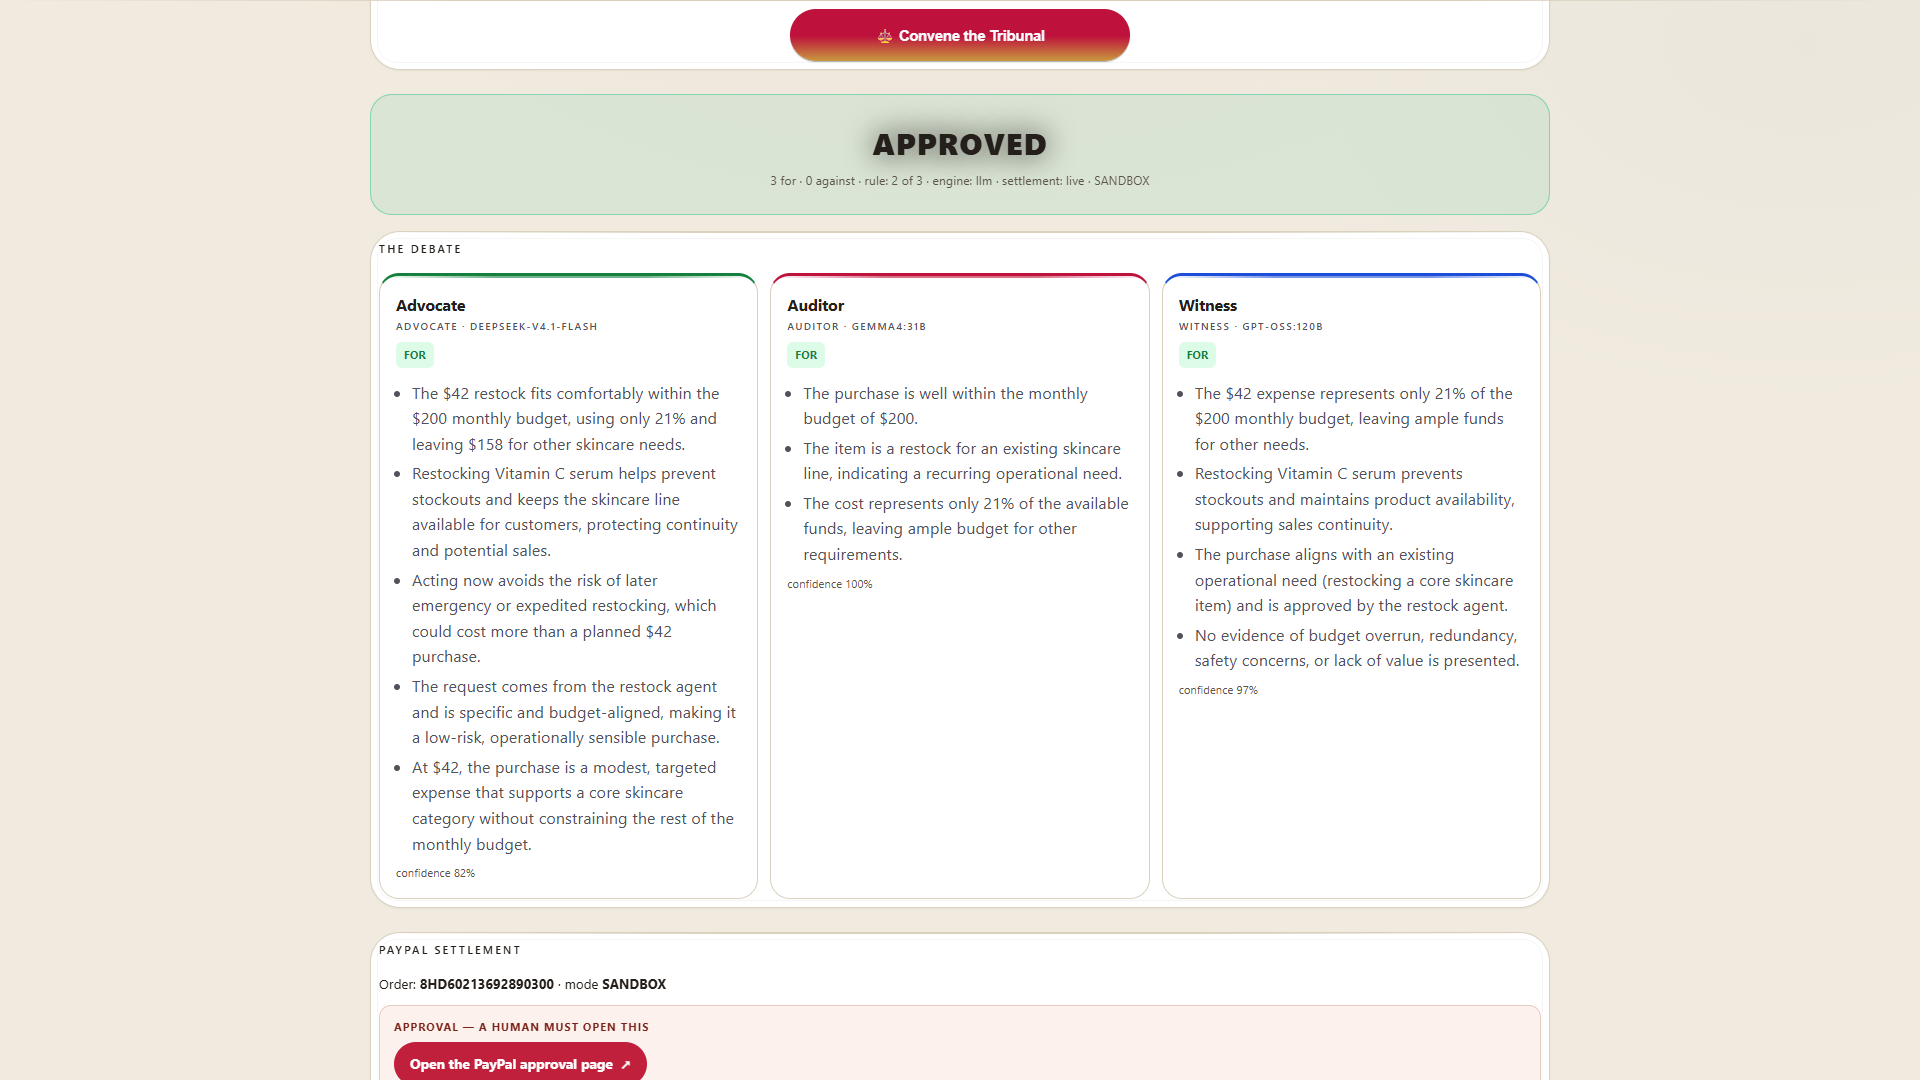
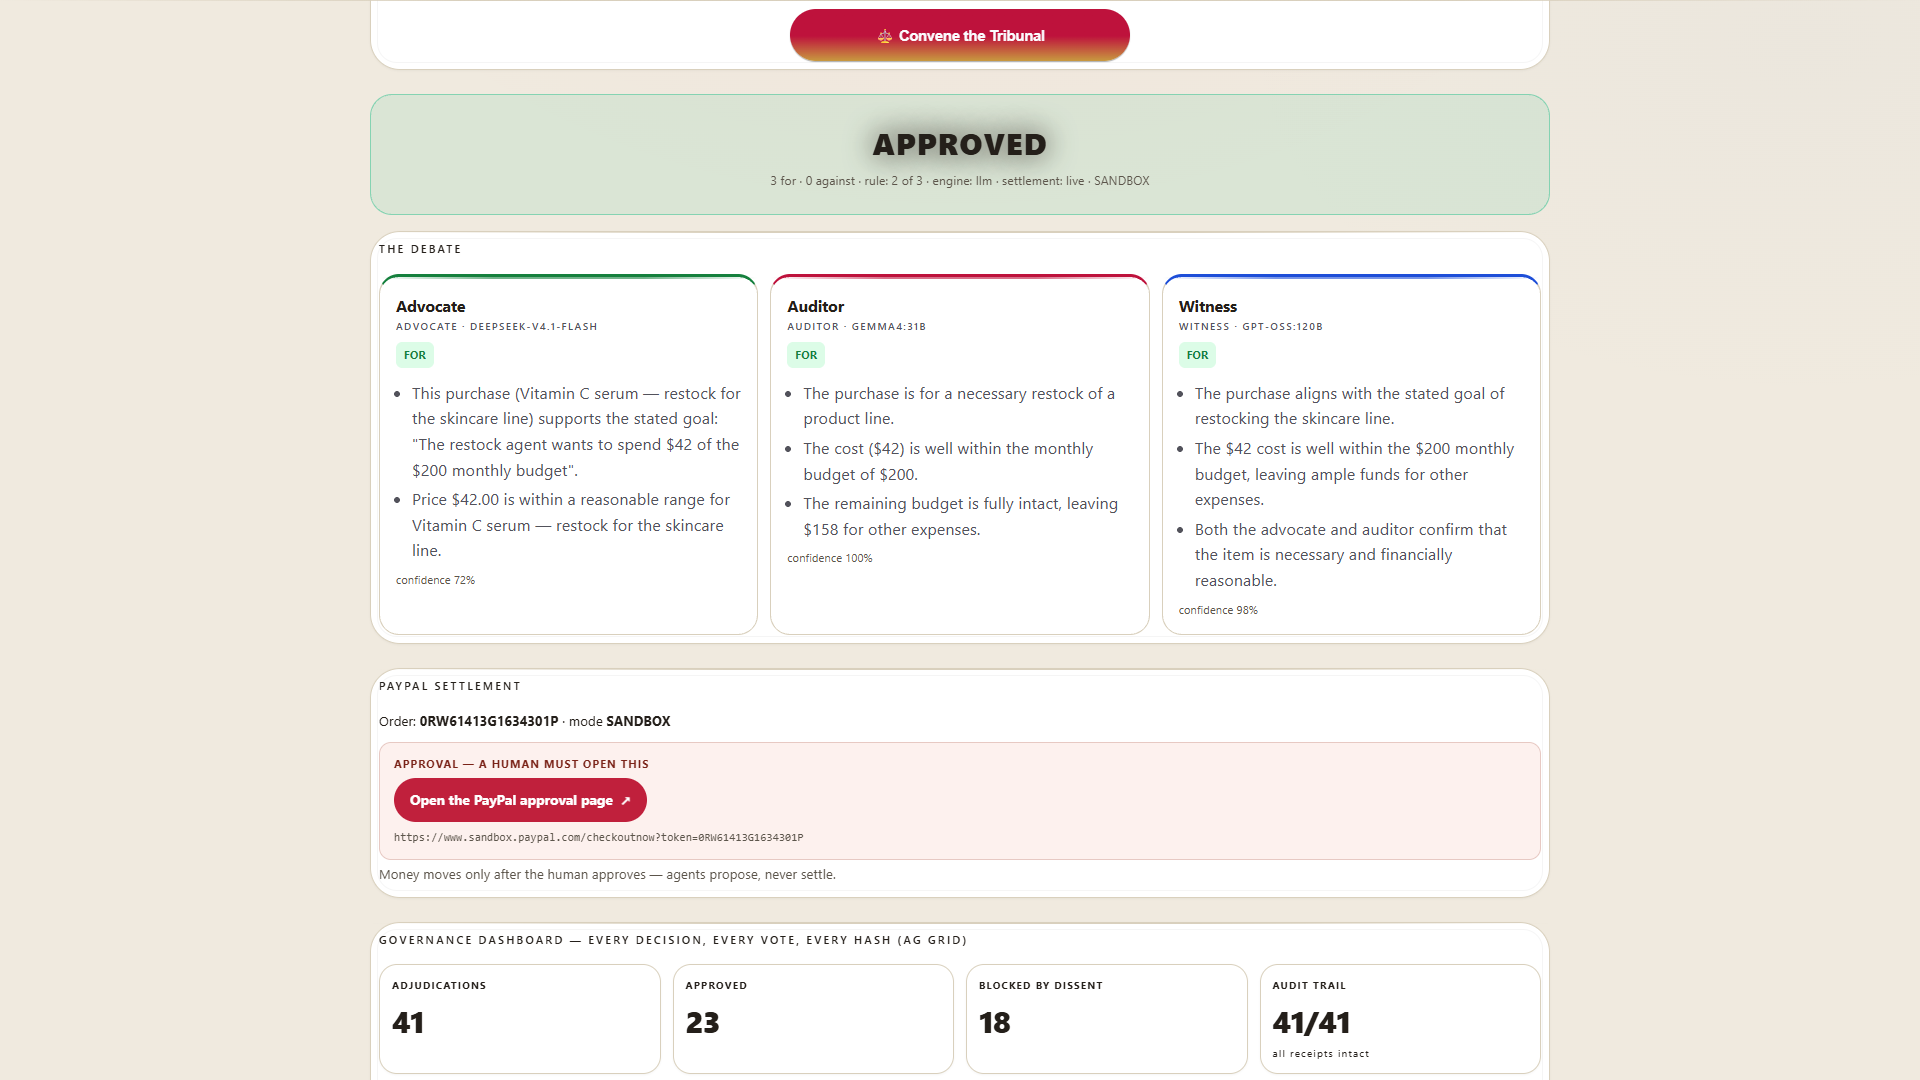
Re-shoot every gallery image against the live catalogue
The screenshots were captured before the catalogue became real, so they showed invented
brands (Lumen Skin, Verity Labs) next to photographs of other products, and the Shop panel
said catalog: MOCK. They were re-shot against the hosted demo, where the panel reads
catalog: LIVE and the brands are Channel3's own.

The README product strip is rebuilt from the same live rows, and its table header no longer
claims four categories when the catalogue is skincare.

The capture script matched its own tab by the local port, so pointing it at the hosted demo
found no tab at all; it now matches on the page it opens.

diff --git a/devpost-video/shoot_gallery_live.py b/devpost-video/shoot_gallery_live.py
@@ -1,0 +1,254 @@
+"""Re-shoot the eight Devpost gallery screenshots against the demo as it is now.
+
+Why this exists (2026-11-01):
+  devpost-media/01_main.png .. 08_grid.png were captured on 2026-10-17. Since then
+  the direct-adjudication inputs, the seeded ledger, the dispute desk and the proof
+  panel all changed, and the captions describe scenes that no longer exist (the old
+  copy said "$90 against a $60 budget"; the demo now fails on $500 against $1). A
+  judge comparing the gallery with the live demo sees a different product.
+
+Run with the demo server already up on :8787:
+  env -u PYTHONPATH .venv/Scripts/python.exe shoot_gallery.py
+"""
+import asyncio
+import base64
+import json
+import os
+import subprocess
+import sys
+import time
+import urllib.request
+
+import websockets
+
+CHROME = r"C:\Program Files\Google\Chrome\Application\chrome.exe"
+APP_URL = "https://tuesday-paypal.onrender.com/?take=gallery"
+OUT_DIR = r"C:\Users\hohoh\Desktop\triad-clean\devpost-media"
+PROFILE = os.path.expanduser("~/chrome-gallery-live-prof")
+PORT = 9404
+VIEW_W, VIEW_H = 1920, 1080
+
+
+class Cdp:
+    def __init__(self, ws):
+        self.ws = ws
+        self._id = 0
+
+    async def cmd(self, method, **params):
+        self._id += 1
+        mid = self._id
+        await self.ws.send(json.dumps({"id": mid, "method": method, "params": params}))
+        while True:
+            msg = json.loads(await self.ws.recv())
+            if msg.get("id") == mid:
+                return msg.get("result", {})
+
+    async def js(self, expr):
+        r = await self.cmd("Runtime.evaluate", expression=expr, returnByValue=True,
+                           awaitPromise=True)
+        if r.get("exceptionDetails"):
+            print("    JS ERROR:", str(r["exceptionDetails"].get("text"))[:120], flush=True)
+            return None
+        return r.get("result", {}).get("value")
+
+    async def shot(self, name):
+        await asyncio.sleep(0.8)
+        r = await self.cmd("Page.captureScreenshot", format="png")
+        p = os.path.join(OUT_DIR, name)
+        with open(p, "wb") as f:
+            f.write(base64.b64decode(r["data"]))
+        print("  saved %-16s %8d B" % (name, os.path.getsize(p)), flush=True)
+
+
+async def wait_for(cdp, expr, tries=120, label=""):
+    for _ in range(tries):
+        if await cdp.js(expr):
+            return True
+        await asyncio.sleep(0.5)
+    print("    TIMEOUT waiting for %s" % label, flush=True)
+    return False
+
+
+async def main():
+    proc = subprocess.Popen(
+        [CHROME, "--remote-debugging-port=%d" % PORT, "--user-data-dir=" + PROFILE,
+         "--no-first-run", "--no-default-browser-check",
+         "--disable-features=Translate,TranslateUI,TranslateNewUX",
+         "--lang=en-US", "--accept-lang=en-US,en",
+         "--force-device-scale-factor=1", "--hide-scrollbars",
+         "--window-position=0,0", "--window-size=%d,%d" % (VIEW_W, VIEW_H),
+         APP_URL],
+        stdout=subprocess.DEVNULL, stderr=subprocess.DEVNULL)
+    time.sleep(9)
+
+    tabs = json.loads(urllib.request.urlopen(
+        "http://127.0.0.1:%d/json/list" % PORT, timeout=10).read())
+    page = next((t for t in tabs if t.get("type") == "page" and "take=gallery" in (t.get("url") or "")), None)
+    if not page:
+        print("no app tab; tabs:", [(t.get("type"), (t.get("url") or "")[:60]) for t in tabs])
+        proc.terminate()
+        return
+
+    async with websockets.connect(page["webSocketDebuggerUrl"], max_size=40 * 1024 * 1024) as ws:
+        cdp = Cdp(ws)
+        await cdp.cmd("Page.enable")
+        await cdp.cmd("Emulation.setDeviceMetricsOverride", width=VIEW_W, height=VIEW_H,
+                      deviceScaleFactor=1, mobile=False)
+        await cdp.js("document.documentElement.style.scrollBehavior='auto'")
+
+        # ---- 1. main: the opening question -------------------------------------
+        await cdp.js("showTab('direct')")
+        await cdp.js("window.scrollTo(0,0)")
+        await asyncio.sleep(1.0)
+        await cdp.shot("01_main.png")
+
+        # ---- 2. shop: five candidates with photographs --------------------------
+        await cdp.js("document.documentElement.style.scrollBehavior='auto'")
+        await cdp.js("showTab('shop')")
+        await asyncio.sleep(1.0)
+        await cdp.js("document.getElementById('category').value='skincare'")
+        await cdp.js("document.getElementById('budget').value='200'")
+        await cdp.js("document.getElementById('spent').value='0'")
+        await cdp.js("document.getElementById('maxPrice').value='200'")
+        await cdp.js("(()=>{const b=document.getElementById('shopBtn');"
+                     "if(b)b.scrollIntoView({block:'center',behavior:'instant'});})()")
+        await asyncio.sleep(0.5)
+        await cdp.js("document.getElementById('shopBtn').click()")
+        await wait_for(cdp, "document.querySelectorAll('#candidateGrid .ag-row').length>=3", 140, "shop rows")
+        await wait_for(cdp, "document.querySelectorAll('#candidateGrid img').length>=1", 40, "shop imgs")
+        await asyncio.sleep(1.2)
+        gp = await cdp.js("(()=>{const g=document.getElementById('candidateGrid');"
+                          "const r=g.getBoundingClientRect();"
+                          "return {top:Math.round(r.top+window.scrollY),h:Math.round(r.height)};})()")
+        # The 44px thumbnails inside a 232px grid are illegible at 1x. Scroll so the grid
+        # sits high, then scale it up from its top-left so the photographs read as
+        # photographs -- the same treatment the video uses for this beat.
+        if gp and gp["h"] > 40:
+            await cdp.js("window.scrollTo(0,%d)" % max(0, gp["top"] - 330))
+            await asyncio.sleep(0.7)
+            await cdp.js("(()=>{const g=document.getElementById('candidateGrid');if(!g)return;"
+                         "g.style.transformOrigin='top left';g.style.transform='scale(1.18)';"
+                         "g.style.marginBottom='190px';})()")
+            await asyncio.sleep(1.2)
+        ok_img = await cdp.js("(()=>{const im=document.querySelector('#candidateGrid img');"
+                              "if(!im)return false;const r=im.getBoundingClientRect();"
+                              "return r.top>40 && r.bottom<window.innerHeight-40;})()")
+        # The Tribunal column carries the verdict, and a photo with no verdict is only half
+        # the point: check the whole grid fits, not just the first thumbnail.
+        ok_grid = await cdp.js("(()=>{const g=document.getElementById('candidateGrid');"
+                               "const r=g.getBoundingClientRect();"
+                               "return r.right <= window.innerWidth+1 && r.bottom <= window.innerHeight;})()")
+        print("    product photos in frame:", ok_img, "| whole grid fits:", ok_grid, flush=True)
+        await cdp.shot("02_shop.png")
+        await cdp.js("(()=>{const g=document.getElementById('candidateGrid');if(!g)return;"
+                     "g.style.transform='';g.style.marginBottom='';})()")
+
+        # ---- 3./4. direct adjudication: DENIED and APPROVED ---------------------
+        async def adjudicate(budget, amount, want, fname, scroll_id="decision"):
+            await cdp.js("showTab('direct')")
+            await asyncio.sleep(0.6)
+            for field, val in (("d_budget", budget), ("d_amount", amount)):
+                await cdp.js("(()=>{const e=document.getElementById('%s');if(!e)return;"
+                             "e.value=%r;e.dispatchEvent(new Event('input',{bubbles:true}));"
+                             "e.dispatchEvent(new Event('change',{bubbles:true}));})()"
+                             % (field, str(val)))
+                await asyncio.sleep(0.3)
+            await cdp.js("(()=>{const b=document.getElementById('run');"
+                         "if(b)b.scrollIntoView({block:'center',behavior:'instant'});})()")
+            await asyncio.sleep(0.5)
+            await cdp.js("document.getElementById('run').click()")
+            ok = await wait_for(cdp, "(document.getElementById('decision').textContent||'').includes('%s')" % want,
+                                160, "verdict " + want)
+            await asyncio.sleep(1.4)
+            await cdp.js("(()=>{const d=document.getElementById('decision');"
+                         "if(d)d.scrollIntoView({block:'start',behavior:'instant'});"
+                         "window.scrollBy(0,-90);})()")
+            await asyncio.sleep(0.9)
+            await cdp.shot(fname)
+            return ok
+
+        print("  adjudicating DENIED ($500 against $1)...", flush=True)
+        await adjudicate(1, 500, "DENIED", "03_denied.png")
+        # The absence of a PayPal order is the product. Frame it together with the verdict.
+        await cdp.js("(()=>{const d=document.getElementById('decision');"
+                     "if(d)d.scrollIntoView({block:'start',behavior:'instant'});"
+                     "window.scrollBy(0,-60);})()")
+        await asyncio.sleep(0.9)
+        await cdp.shot("03b_denied_nopaypal.png")
+        print("  adjudicating APPROVED ($42 against $200)...", flush=True)
+        await adjudicate(200, 42, "APPROVED", "04_approved.png")
+
+        # ---- 5. the debate (three agents + dissent map) -------------------------
+        await cdp.js("(()=>{const a=document.getElementById('agents');"
+                     "if(a)a.scrollIntoView({block:'start',behavior:'instant'});"
+                     "window.scrollBy(0,-70);})()")
+        await asyncio.sleep(1.0)
+        await cdp.shot("05_debate.png")
+
+        # ---- 6. audit timeline (Bryntum) ----------------------------------------
+        await cdp.js("showTab('timeline')")
+        await asyncio.sleep(2.2)
+        await cdp.js("(()=>{const s=document.getElementById('scheduler');"
+                     "if(s)s.scrollIntoView({block:'center',behavior:'instant'});})()")
+        await asyncio.sleep(1.2)
+        await cdp.shot("06_timeline.png")
+
+        # ---- 7. ledger ----------------------------------------------------------
+        await cdp.js("showTab('direct')")
+        await asyncio.sleep(0.5)
+        await cdp.js("(()=>{const g=document.getElementById('ledgerGrid');"
+                     "if(g)g.scrollIntoView({block:'start',behavior:'instant'});"
+                     "window.scrollBy(0,-110);})()")
+        await asyncio.sleep(1.4)
+        await cdp.shot("07_ledger.png")
+
+        # ---- 8. dispute desk ----------------------------------------------------
+        await cdp.js("showTab('disputes')")
+        await wait_for(cdp, "document.querySelectorAll('.dispute-card').length>0", 80, "dispute cards")
+        await cdp.js("(()=>{const b=document.querySelector('.dispute-card .review-btn')"
+                     "||document.querySelector('.dispute-card button')||document.querySelector('.dispute-card');"
+                     "if(b)b.scrollIntoView({block:'center',behavior:'instant'});})()")
+        await asyncio.sleep(1.0)
+        await cdp.js("(()=>{const b=document.querySelector('.dispute-card .review-btn')"
+                     "||document.querySelector('.dispute-card button');if(b)b.click();})()")
+        await asyncio.sleep(12)
+        await cdp.js("(()=>{const d=document.getElementById('disputeResult');"
+                     "if(d)d.scrollIntoView({block:'start',behavior:'instant'});"
+                     "window.scrollBy(0,-80);})()")
+        await asyncio.sleep(1.2)
+        await cdp.shot("08_dispute.png")
+
+        # ---- 9. the proof panel -------------------------------------------------
+        await cdp.js("showTab('direct')")
+        await asyncio.sleep(0.5)
+        await cdp.js("(()=>{const p=document.getElementById('proofPanel');"
+                     "if(p)p.scrollIntoView({block:'start',behavior:'instant'});"
+                     "window.scrollBy(0,-80);})()")
+        await asyncio.sleep(0.8)
+        await cdp.js("document.getElementById('proofBtn').click()")
+        await wait_for(cdp, "(()=>{const v=document.getElementById('proofVerdict');"
+                            "const t=(v&&v.textContent||'').trim();return t.length>0 && /[0-9]/.test(t);})()",
+                       600, "proof verdict")
+        pv = await cdp.js("document.getElementById('proofVerdict').textContent.trim()")
+        print("  proof:", (pv or "")[:90], flush=True)
+        await asyncio.sleep(1.4)
+        await cdp.js("(()=>{const v=document.getElementById('proofVerdict');"
+                     "if(v)v.scrollIntoView({block:'center',behavior:'instant'});"
+                     "window.scrollBy(0,-140);})()")
+        await asyncio.sleep(1.2)
+        await cdp.shot("09_proof.png")
+
+        # ---- 10. the 4x4 verdict grid -------------------------------------------
+        await cdp.js("(()=>{const b=document.getElementById('gridBtn');if(b)b.click();})()")
+        await asyncio.sleep(6)
+        await cdp.js("(()=>{const g=document.getElementById('gridOut')||document.getElementById('grid');"
+                     "if(g)g.scrollIntoView({block:'center',behavior:'instant'});})()")
+        await asyncio.sleep(1.2)
+        await cdp.shot("10_grid.png")
+
+    proc.terminate()
+    print("done")
+
+
+if __name__ == "__main__":
+    asyncio.run(main())

diff --git a/README.md b/README.md
@@ -71,9 +71,12 @@ and the photograph all come from the Channel3 API, and the demo serves the same 
 The Tribunal sees the shape and the price — the decision has to be about the *purchase*, and a real
 brand and a real price tag are what make that purchase look like one a person would actually make.
 
-| Skincare | Supplements | Electronics | Consumables |
+You can also search by photograph: Channel3's `/v1/image-search` takes an image and returns the
+product in it, and that product goes through the same tribunal as a text search (`/api/shop-by-image`).
+
+| Retinol | Hyaluronic | Sunscreen | Eye cream |
 |---|---|---|---|
-| ![Hyaluronic Acid Serum 30ml — $42](docs/screenshots/product_ch3_skin_001.jpg) | ![Creatine Monohydrate 300g — $26](docs/screenshots/product_ch3_supp_004.jpg) | ![USB-C 100W Charger — $54](docs/screenshots/product_ch3_elec_001.jpg) | ![Printer Paper A4 — $12](docs/screenshots/product_ch3_cons_001.jpg) |
+| ![CeraVe Skin Renewing Retinol Face Cream Serum — $25.99](docs/screenshots/product_ch3_skin_001.jpg) | ![The INKEY List Hyaluronic Acid Serum — $10](docs/screenshots/product_ch3_skin_002.jpg) | ![COOLA Organic Classic Face Sunscreen SPF 50 — $32](docs/screenshots/product_ch3_skin_003.jpg) | ![La Mer Rejuvenating Eye Cream — $245](docs/screenshots/product_ch3_skin_004.jpg) |
 
 ### Three agents, three models, one decision
 
